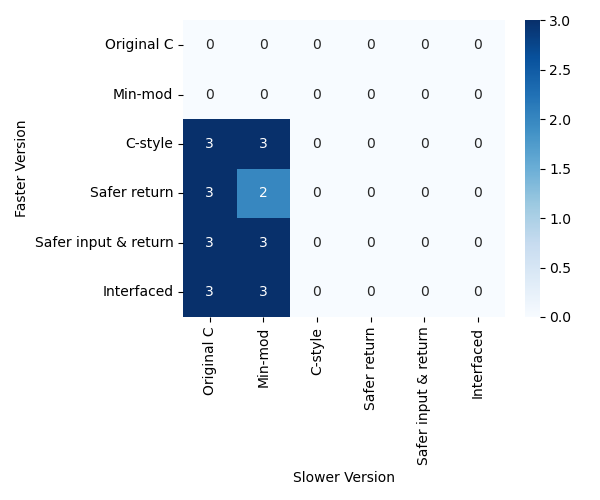
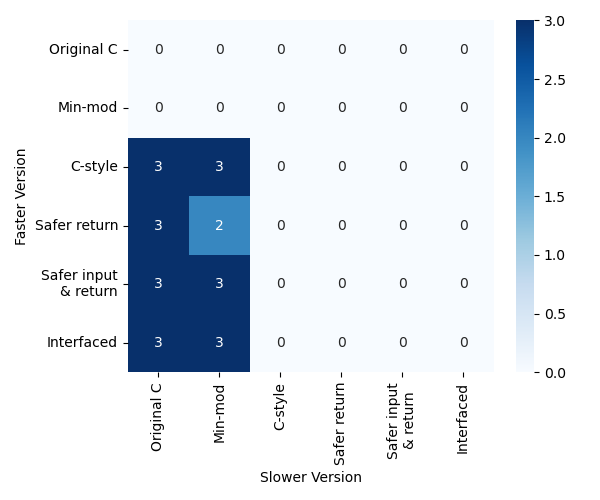
brrr statistics

diff --git a/rs-fft/pyscripts/read_from_all_files.py b/rs-fft/pyscripts/read_from_all_files.py
@@ -6,7 +6,9 @@ import pandas as pd
 import scikit_posthocs as sp
 import seaborn as sns
 
-print_details = True
+print_details = False
+plot_side_by_side = False # plot associated runs with conf intervals
+plot_independently = False # plot each individual run separately
 
 runs = 40
 
@@ -19,44 +21,57 @@ methods = ("Naive", "Cooley-Tukey", "Good-Thomas")
 # methods = ("good-thomas",)
 
 data = {}
-data_methods = {}
+data_methods = [{}, {}, {}]
+# for k in range(3):
+#     data_methods.append([])
+# data_methods_c_vs_minmod = {}
+# data_methods_rustlike = {}
 
 for i in range(len(versions)):
     data[i] = {}
     for r in range(len(methods)):
-        if i == 0: data_methods[r] = []
+        if i == 0: 
+            for k in range(3):
+                data_methods[k][r] = []
+            # data_methods[r] = []
+            # data_methods_rustlike[r] = []
+            # data_methods_c_vs_minmod[r] = []
         data[i][r] = np.fromfile(f"data/{versions[i]}-{methods[r].lower()}-output.bin", dtype=np.float64).reshape((runs))
-        data_methods[r].append(data[i][r])
+        data_methods[0][r].append(data[i][r])
+        # if i > 1: data_methods_rustlike[r].append(data[i][r])
+        # else: data_methods_c_vs_minmod[r].append(data[i][r])
+        if i > 1: data_methods[1][r].append(data[i][r])
+        else: data_methods[2][r].append(data[i][r])
 if print_details: print(data_methods)
 
 versions = ["Original C", "Min-mod", "C-style", "Safer return", "Safer input & return", "Interfaced"]
 
-# for i in range(len(versions)):
-#     print(f"{versions[i]}\n")
-#     # if (versions[i] == "interfaced"): 
-#     #         data[i][r] = np.delete(data[i][r], 26)
-#     for r in range(len(methods)):
-#         print(f"\t{methods[r]}\n")
+## PLOT ALL VERSION-METHODS SEPARATELY
 
-#         mean = np.mean(data[i][r])
-#         print(f"\t\tMean: {mean}\n")
-#         sem = stats.sem(data[i][r])  # Standard error of the mean
+if plot_independently:
+    for i in range(len(versions)):
+        print(f"{versions[i]}\n")
+        # if (versions[i] == "interfaced"): 
+        #         data[i][r] = np.delete(data[i][r], 26)
+        for r in range(len(methods)):
+            print(f"\t{methods[r]}\n")
 
-#         margin = sem * stats.t.ppf((1 + confidence) / 2.0, runs - 1)
-#         lower_bound = mean - margin
-#         upper_bound = mean + margin
-#         print(f"\t\t{confidence*100:.1f}% confidence interval: ({lower_bound:.5f}, {upper_bound:.5f})")
+            mean = np.mean(data[i][r])
+            print(f"\t\tMean: {mean}\n")
+            sem = stats.sem(data[i][r])  # Standard error of the mean
 
-#         plt.figure()
-#         plt.plot(data[i][r], marker='o')
-#         plt.title(f'Run times: {versions[i]}-{methods[r]}')
-#         plt.xlabel('Run')
-#         plt.ylabel('Time (s)')
+            margin = sem * stats.t.ppf((1 + confidence) / 2.0, runs - 1)
+            lower_bound = mean - margin
+            upper_bound = mean + margin
+            print(f"\t\t{confidence*100:.1f}% confidence interval: ({lower_bound:.5f}, {upper_bound:.5f})")
 
-plot_side_by_side = False
+            plt.figure()
+            plt.plot(data[i][r], marker='o')
+            plt.title(f'Run times: {versions[i]}-{methods[r]}')
+            plt.xlabel('Run')
+            plt.ylabel('Time (s)')
 
-# versions[0] = "original-c"
-# versions[2] = "c-style"
+## PLOT CONFIDENCE INTERVALS
 
 for r in range(len(methods)):
     plt.figure(figsize=(10, 6))
@@ -83,12 +98,6 @@ for r in range(len(methods)):
             plt.ylabel("Time (s)")
             plt.subplot(3,3,7)
         plt.errorbar(i, mean, yerr=margin, fmt='o', capsize=5, label=versions[i])
-        # Plotting the confidence interval as a shaded area
-        # plt.fill_between([i - 0.1, i + 0.1], lower_bound, upper_bound, color="lightgray", alpha=0.5)
-        
-        # Plot the mean as a point
-        # plt.plot(i, mean, marker='o', markersize=8, label=versions[i] ) #if r == 0 else ""
-        # print(f"{versions[i]} - {methods[r]}: ({lower_bound:.5f}, {upper_bound:.5f})")
     
     if (plot_side_by_side):
         plt.subplot(3,3,7)
@@ -104,77 +113,113 @@ for r in range(len(methods)):
 
 
 
-# plt.show()
+## STAT SIGNIFICANCE
 
 dunn_results = {}  # store Dunn test results here
 significant_pairs = {}  # stores significant group pairs per test
 performance_comparison = {}  # Store which version was faster per significant pair
 
+for k in range(3):
+    if k == 0:
+        # Compare all versions
+        compcase = "--- All versions ---"
+        savestr = "c-fft-perf-comparison"
+        versions = ["Original C", "Min-mod", "C-style", "Safer return", "Safer input\n& return", "Interfaced"]
+    elif k == 1:
+        # Compare the Rustlike versions
+        compcase = "--- Rustlike versions ---"
+        savestr = "c-fft-rustlike-perf-comparison"
+        versions = ["C-style", "Safer return", "Safer input\n& return", "Interfaced"]
+    else:
+        # Compare C vs minmod
+        compcase = "--- C vs Minmod ---"
+        savestr = "c-fft-c-vs-minmod-perf-comparison"
+        versions = ["Original C", "Min-mod"]
 
-for m, v in data_methods.items():
-# t = test name
-# v = array of arrays of test results
-# for t, v in data_test.items():
-    r = stats.kruskal(*v)
-    if (r.pvalue < alpha):
-        if print_details: print(f"{methods[m]}: F = {r.statistic}, p = {r.pvalue}")
+    performance_comparison = {}  # Store which version was faster per significant pair
+    if print_details: print(compcase)
+    for m, v in data_methods[k].items():
+        if (len(versions) == 2): 
+            u_stat, p_val = stats.mannwhitneyu(v[0], v[1], alternative='two-sided')
+            if (p_val < alpha):
+                if print_details: print(f"{methods[m]}: F = {r.statistic}, p = {p_val}")
+                pairwise_faster = []  # (v_low, v_high, pval)
+                if np.median(v[0]) < np.median(v[1]):
+                    faster = (0, 1, p_val)  # 0 faster than 1
+                else:
+                    faster = (1, 0, p_val)  # 1 faster than 0
+                pairwise_faster.append(faster)
+                performance_comparison[m] = pairwise_faster
+                if print_details:
+                    print(f"{methods[m]}: Mann-Whitney")
+                    # print("Significant pairwise differences (p < 0.05):")
+                    # for pair in sig_pairs:
+                    #     print(f"\t{versions[pair[0]]} vs {versions[pair[1]]}: p = {pair[2]:.8f}")
+                    for a, b, p in pairwise_faster:
+                            print(f"\t{versions[a]} faster than {versions[b]}, p = {p:.8f}")
+        else: 
+            r = stats.kruskal(*v)
+            if (r.pvalue < alpha):
+                if print_details: print(f"{methods[m]}: F = {r.statistic}, p = {r.pvalue}")
 
-        # Flatten and prepare for Dunn test
-        data = np.concatenate(v)
-        groups = [i for i, arr in enumerate(v) for _ in arr]
-        df = pd.DataFrame({'score': data, 'group': groups})
+                # Flatten and prepare for Dunn test
+                data = np.concatenate(v)
+                groups = [i for i, arr in enumerate(v) for _ in arr]
+                df = pd.DataFrame({'score': data, 'group': groups})
 
-        # Run Dunn's test with long-form input
-        dunn = sp.posthoc_dunn(df, val_col='score', group_col='group', p_adjust='bonferroni')
-        dunn_results[m] = dunn
+                # Run Dunn's test with long-form input
+                dunn = sp.posthoc_dunn(df, val_col='score', group_col='group', p_adjust='bonferroni')
+                dunn_results[m] = dunn
 
-        # Extract significant pairs
-        sig_pairs = []
-        pairwise_faster = []  # (v_low, v_high, pval)
-        for i in dunn.index:
-            for j in dunn.columns:
-                if i < j and dunn.loc[i, j] < alpha:
-                    sig_pairs.append((i, j, dunn.loc[i, j]))  # optionally include p-value
-                    # idx_i = int(i[1]) - 1  # convert 'v1' to 0
-                    # idx_j = int(j[1]) - 1
+                # Extract significant pairs
+                sig_pairs = []
+                pairwise_faster = []  # (v_low, v_high, pval)
+                for i in dunn.index:
+                    for j in dunn.columns:
+                        if i < j and dunn.loc[i, j] < alpha:
+                            sig_pairs.append((i, j, dunn.loc[i, j]))  # optionally include p-value
+                            # idx_i = int(i[1]) - 1  # convert 'v1' to 0
+                            # idx_j = int(j[1]) - 1
 
-                    median_i = np.median(v[i])
-                    median_j = np.median(v[j])
+                            median_i = np.median(v[i])
+                            median_j = np.median(v[j])
 
-                    if median_i < median_j:
-                        faster = (i, j, dunn.loc[i, j])  # i faster than j
-                    else:
-                        faster = (j, i, dunn.loc[i, j])  # j faster than i
+                            if median_i < median_j:
+                                faster = (i, j, dunn.loc[i, j])  # i faster than j
+                            else:
+                                faster = (j, i, dunn.loc[i, j])  # j faster than i
 
-                    pairwise_faster.append(faster)
-        significant_pairs[m] = sig_pairs
-        performance_comparison[m] = pairwise_faster
+                            pairwise_faster.append(faster)
+                significant_pairs[m] = sig_pairs
+                performance_comparison[m] = pairwise_faster
 
-        if print_details:
-            print(f"{methods[m]}: Dunn")
-            print(dunn)
-            # print("Significant pairwise differences (p < 0.05):")
-            # for pair in sig_pairs:
-            #     print(f"\t{versions[pair[0]]} vs {versions[pair[1]]}: p = {pair[2]:.8f}")
-            for a, b, p in pairwise_faster:
-                    print(f"\t{versions[a]} faster than {versions[b]}, p = {p:.8f}")
+                if print_details:
+                    print(f"{methods[m]}: Dunn")
+                    print(dunn)
+                    # print("Significant pairwise differences (p < 0.05):")
+                    # for pair in sig_pairs:
+                    #     print(f"\t{versions[pair[0]]} vs {versions[pair[1]]}: p = {pair[2]:.8f}")
+                    for a, b, p in pairwise_faster:
+                            print(f"\t{versions[a]} faster than {versions[b]}, p = {p:.8f}")
 
 
-win_matrix = np.zeros((6, 6), dtype=int)
+    win_matrix = np.zeros((len(versions), len(versions)), dtype=int)
 
-# Count wins
-for results in performance_comparison.values():
-    for faster, slower, _ in results:
-        win_matrix[faster, slower] += 1
+    # Count wins
+    for results in performance_comparison.values():
+        for faster, slower, _ in results:
+            win_matrix[faster, slower] += 1
 
-print(win_matrix)
+    print(win_matrix)
 
-# Plot heatmap
-plt.figure(figsize=(6, 5))
-sns.heatmap(win_matrix, annot=True, fmt="d", cmap="Blues",
-            xticklabels=versions, yticklabels=versions)
-plt.xlabel("Slower Version")
-plt.ylabel("Faster Version")
-plt.tight_layout()
-plt.savefig("figs/c-fft-perf-comparison.png")
+    # Plot heatmap
+    plt.figure(figsize=(6, 5))
+    sns.heatmap(win_matrix, annot=True, fmt="d", cmap="Blues",
+                xticklabels=versions, yticklabels=versions)
+    plt.xlabel("Slower Version")
+    plt.ylabel("Faster Version")
+    plt.tight_layout()
+    plt.savefig(f"figs/{savestr}.png")
+
+
 plt.show()
